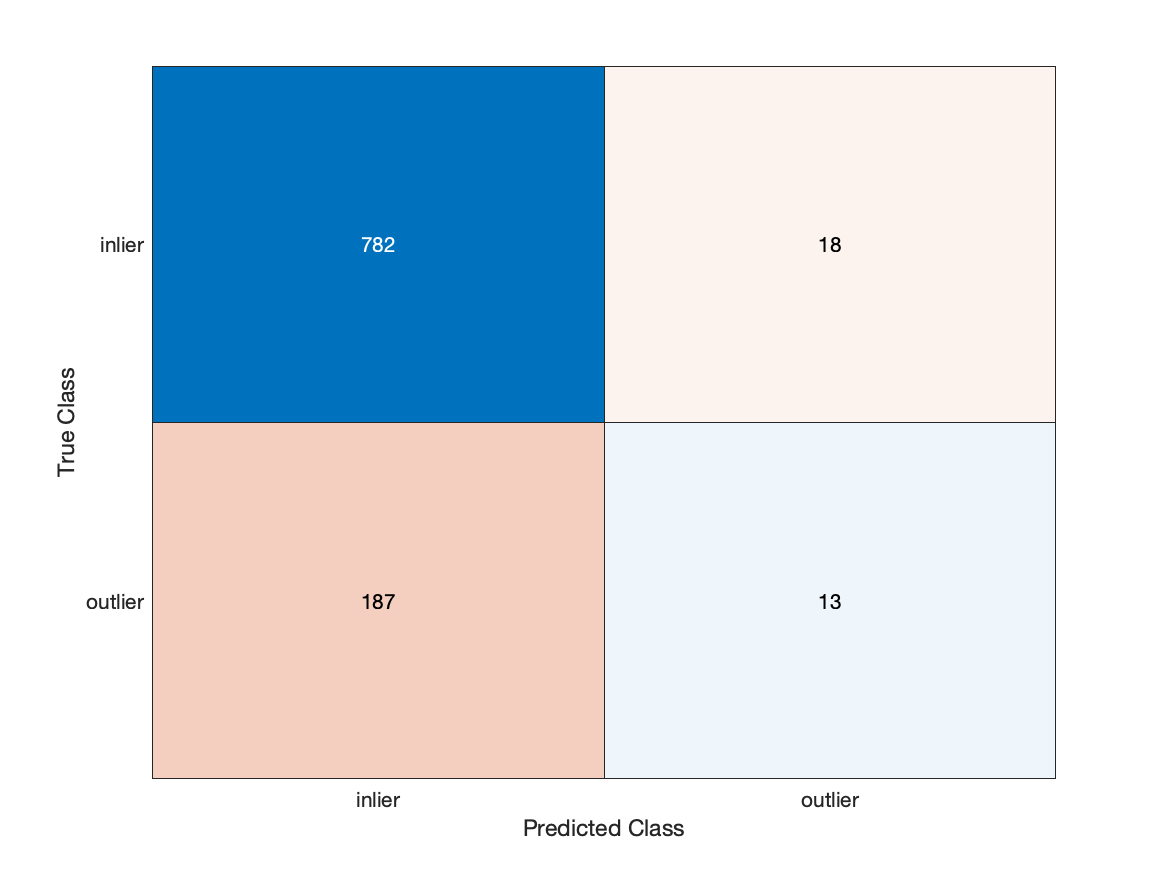
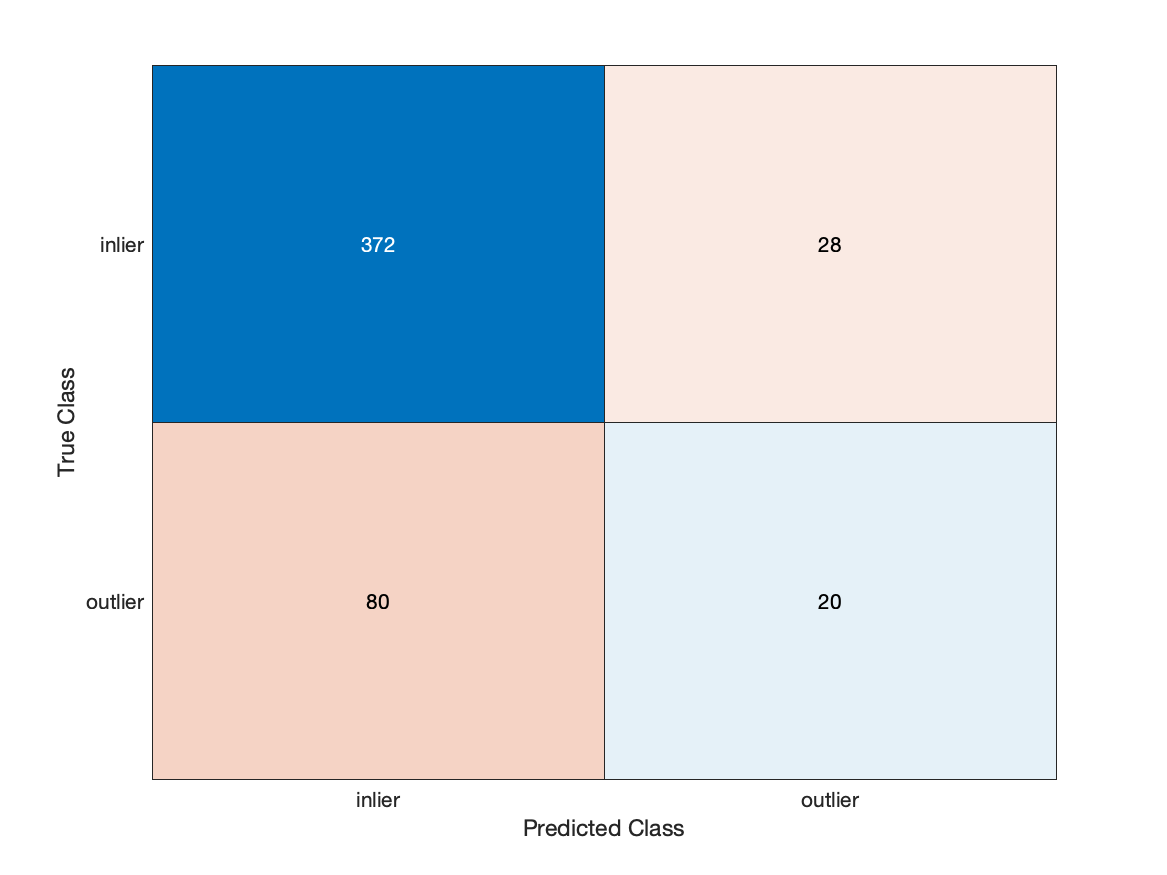
feat: add results of mrcd

Changed region(s): [[0.6787, 0.6789, 0.7095, 0.7097], [0.3085, 0.6789, 0.3393, 0.7097], [0.3085, 0.2777, 0.3393, 0.3086]]

diff --git a/thesis/normal_simulation/normal_simulation.m b/thesis/normal_simulation/normal_simulation.m
@@ -174,4 +174,13 @@ function stats = runSimulation(NameValueArgs)
     opts = setvartype(opts, 'double');
     opts = setvartype(opts,'name', 'categorical');
     stats = readtable(file, opts);
+
+    [path, filename, ext] = fileparts(file);
+    mrcdFile = fullfile(path, sprintf("%s_mrcd%s", filename, ext));
+    opts = detectImportOptions(mrcdFile);
+    opts = setvartype(opts, 'double');
+    opts = setvartype(opts,'name', 'categorical');
+    mrcdStats = readtable(mrcdFile, opts);
+
+    stats = vertcat(stats, mrcdStats);
 end
